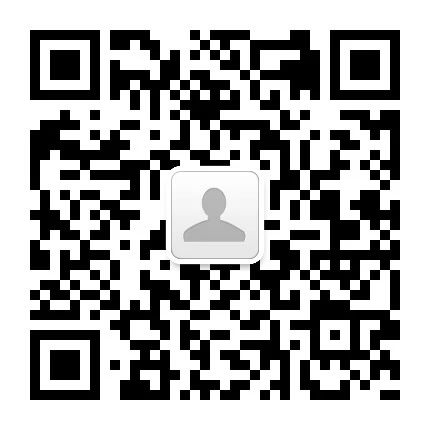
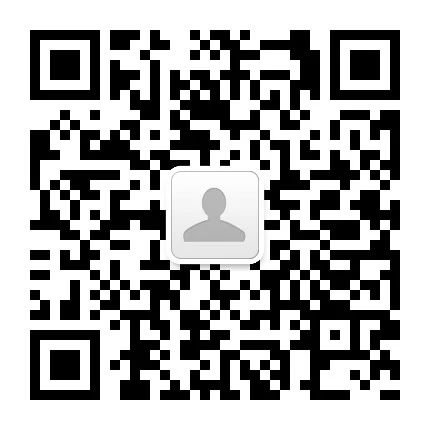
1. 修改demo内测试公众号数据

diff --git a/demo/index.php b/demo/index.php
@@ -1,6 +1,6 @@
 <?php
-    $appid = 'wx7071881140894a70';
-    $appsecret = 'ace444bd6fd11f3893dba0ef6aaecdb1';
+    $appid = 'wxb6d74fdd670c8910';
+    $appsecret = '1429a684d8c8407c684c29f404d4c379';
     $scope = 'snsapi_userinfo';
     $proxy_scope = '';
     $redirect_uri = 'http://'.$_SERVER['HTTP_HOST'].$_SERVER['REQUEST_URI'];
